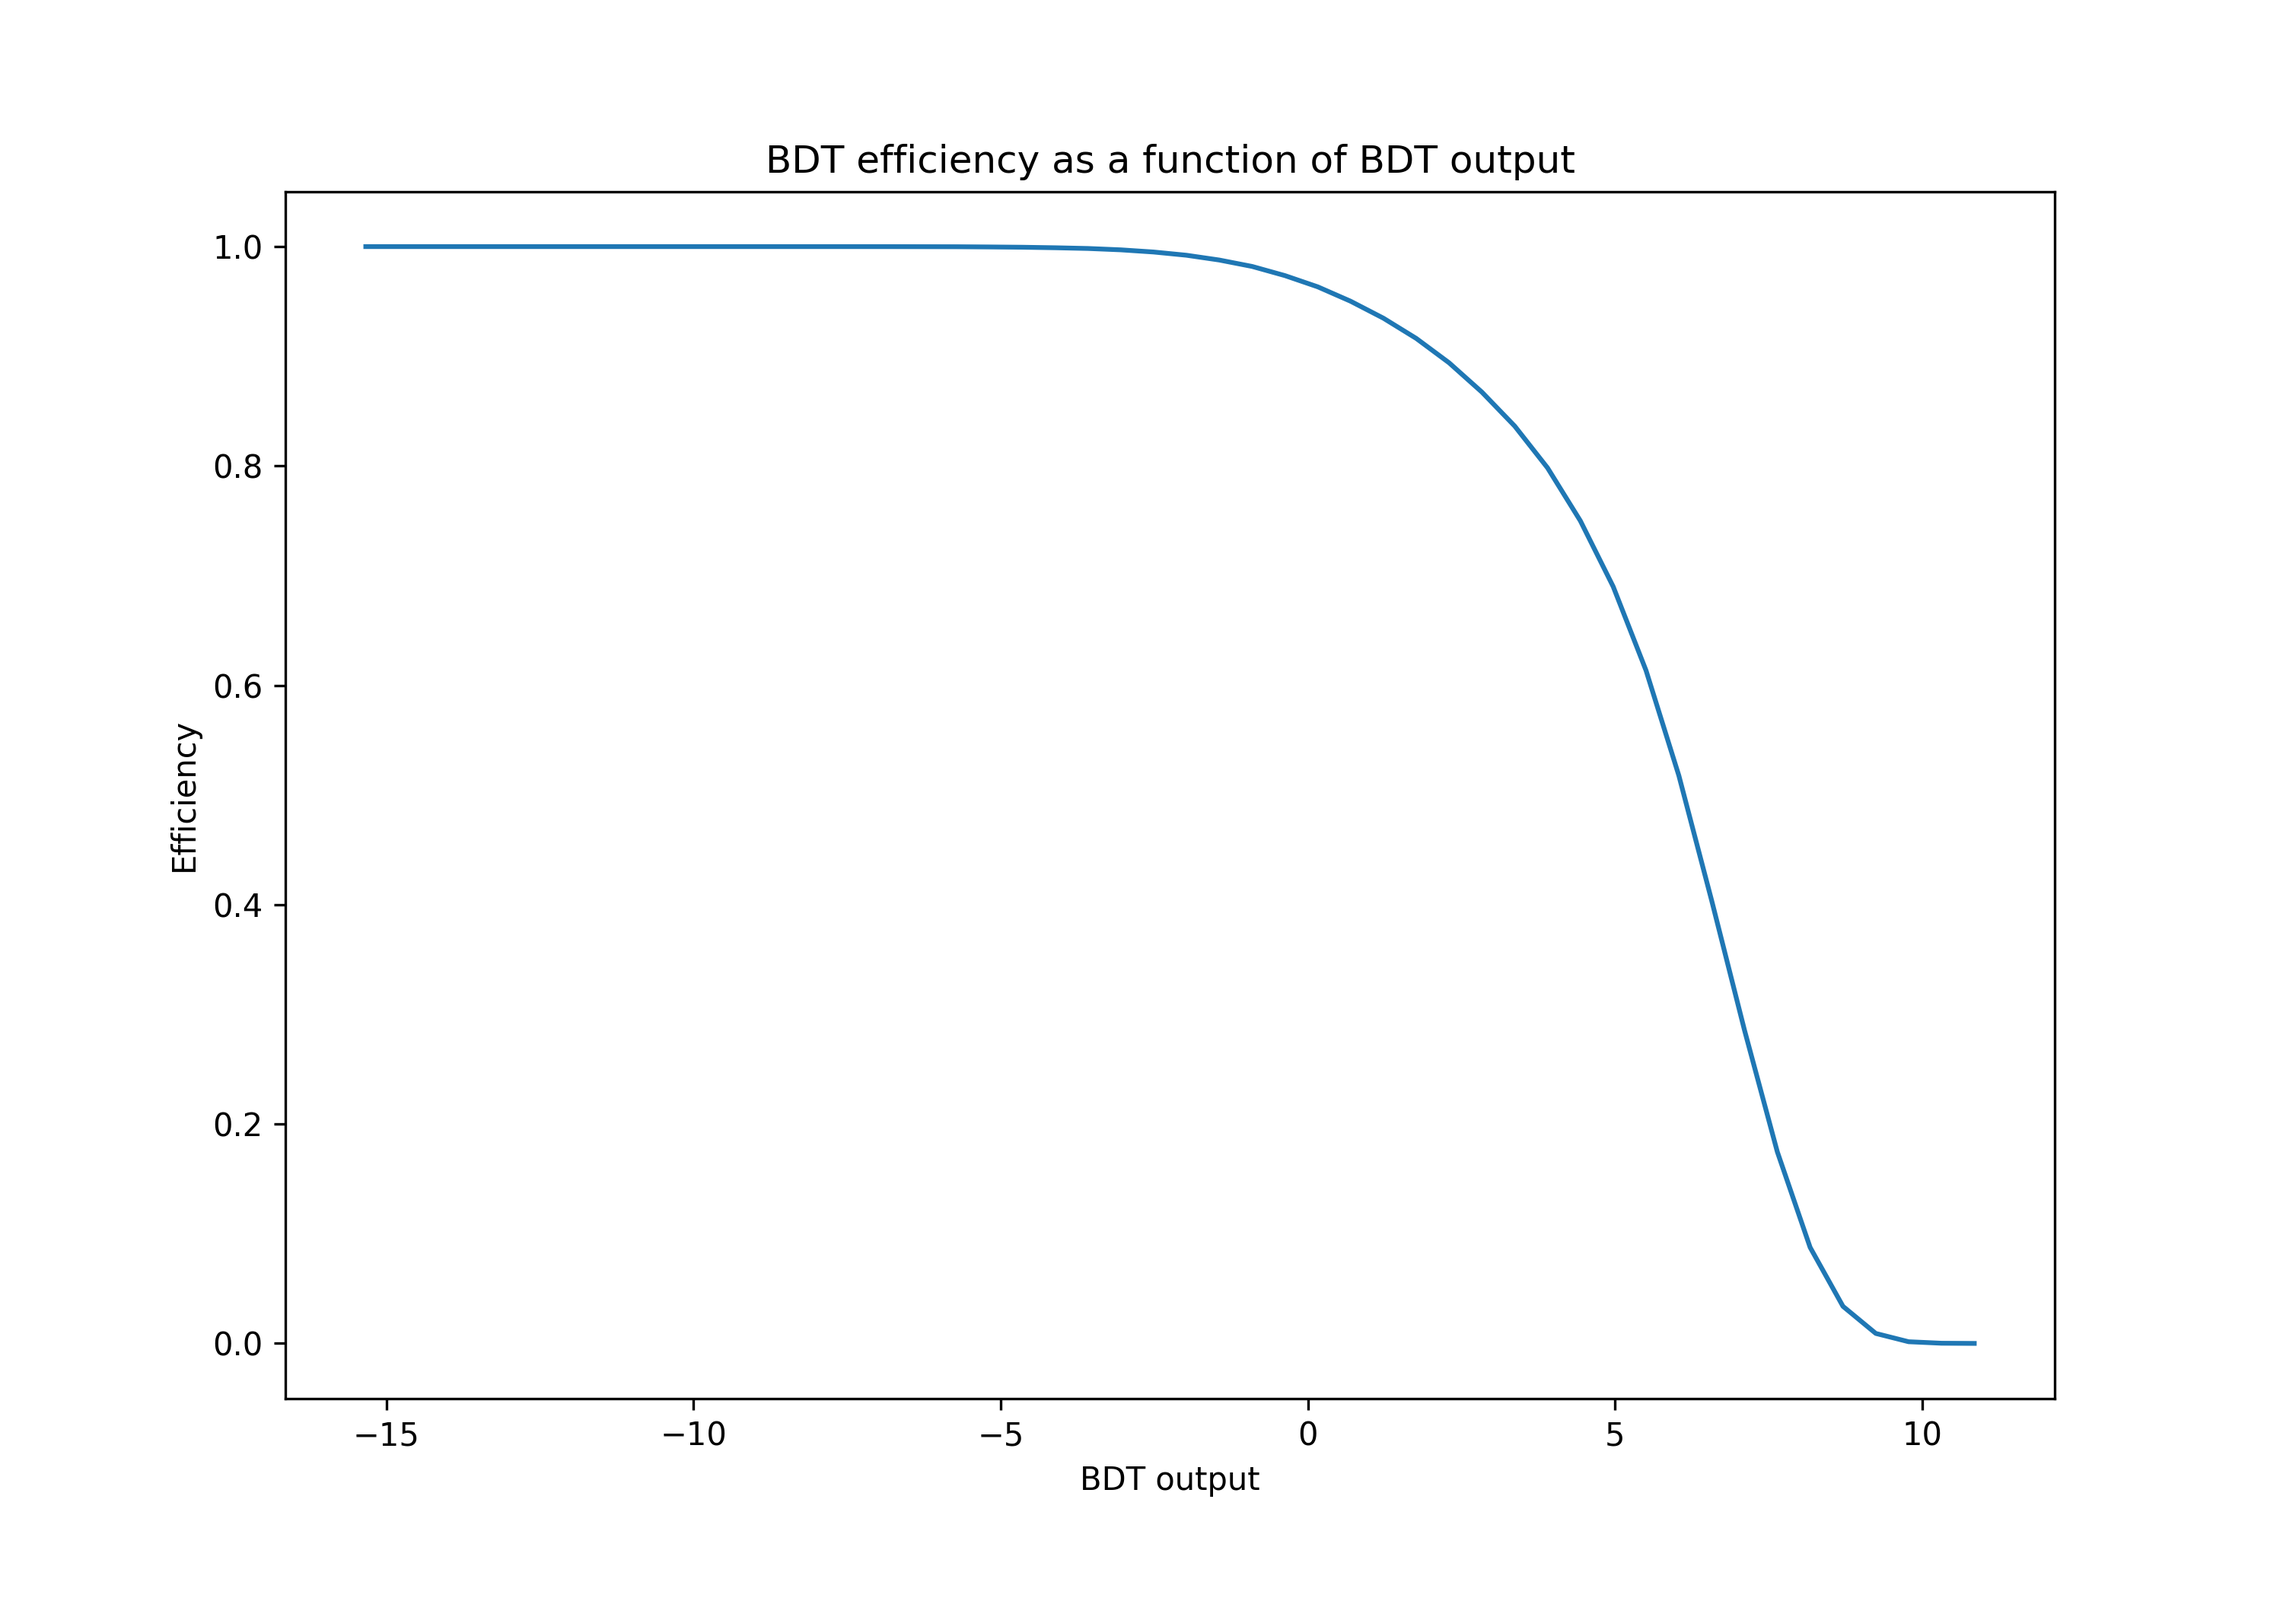
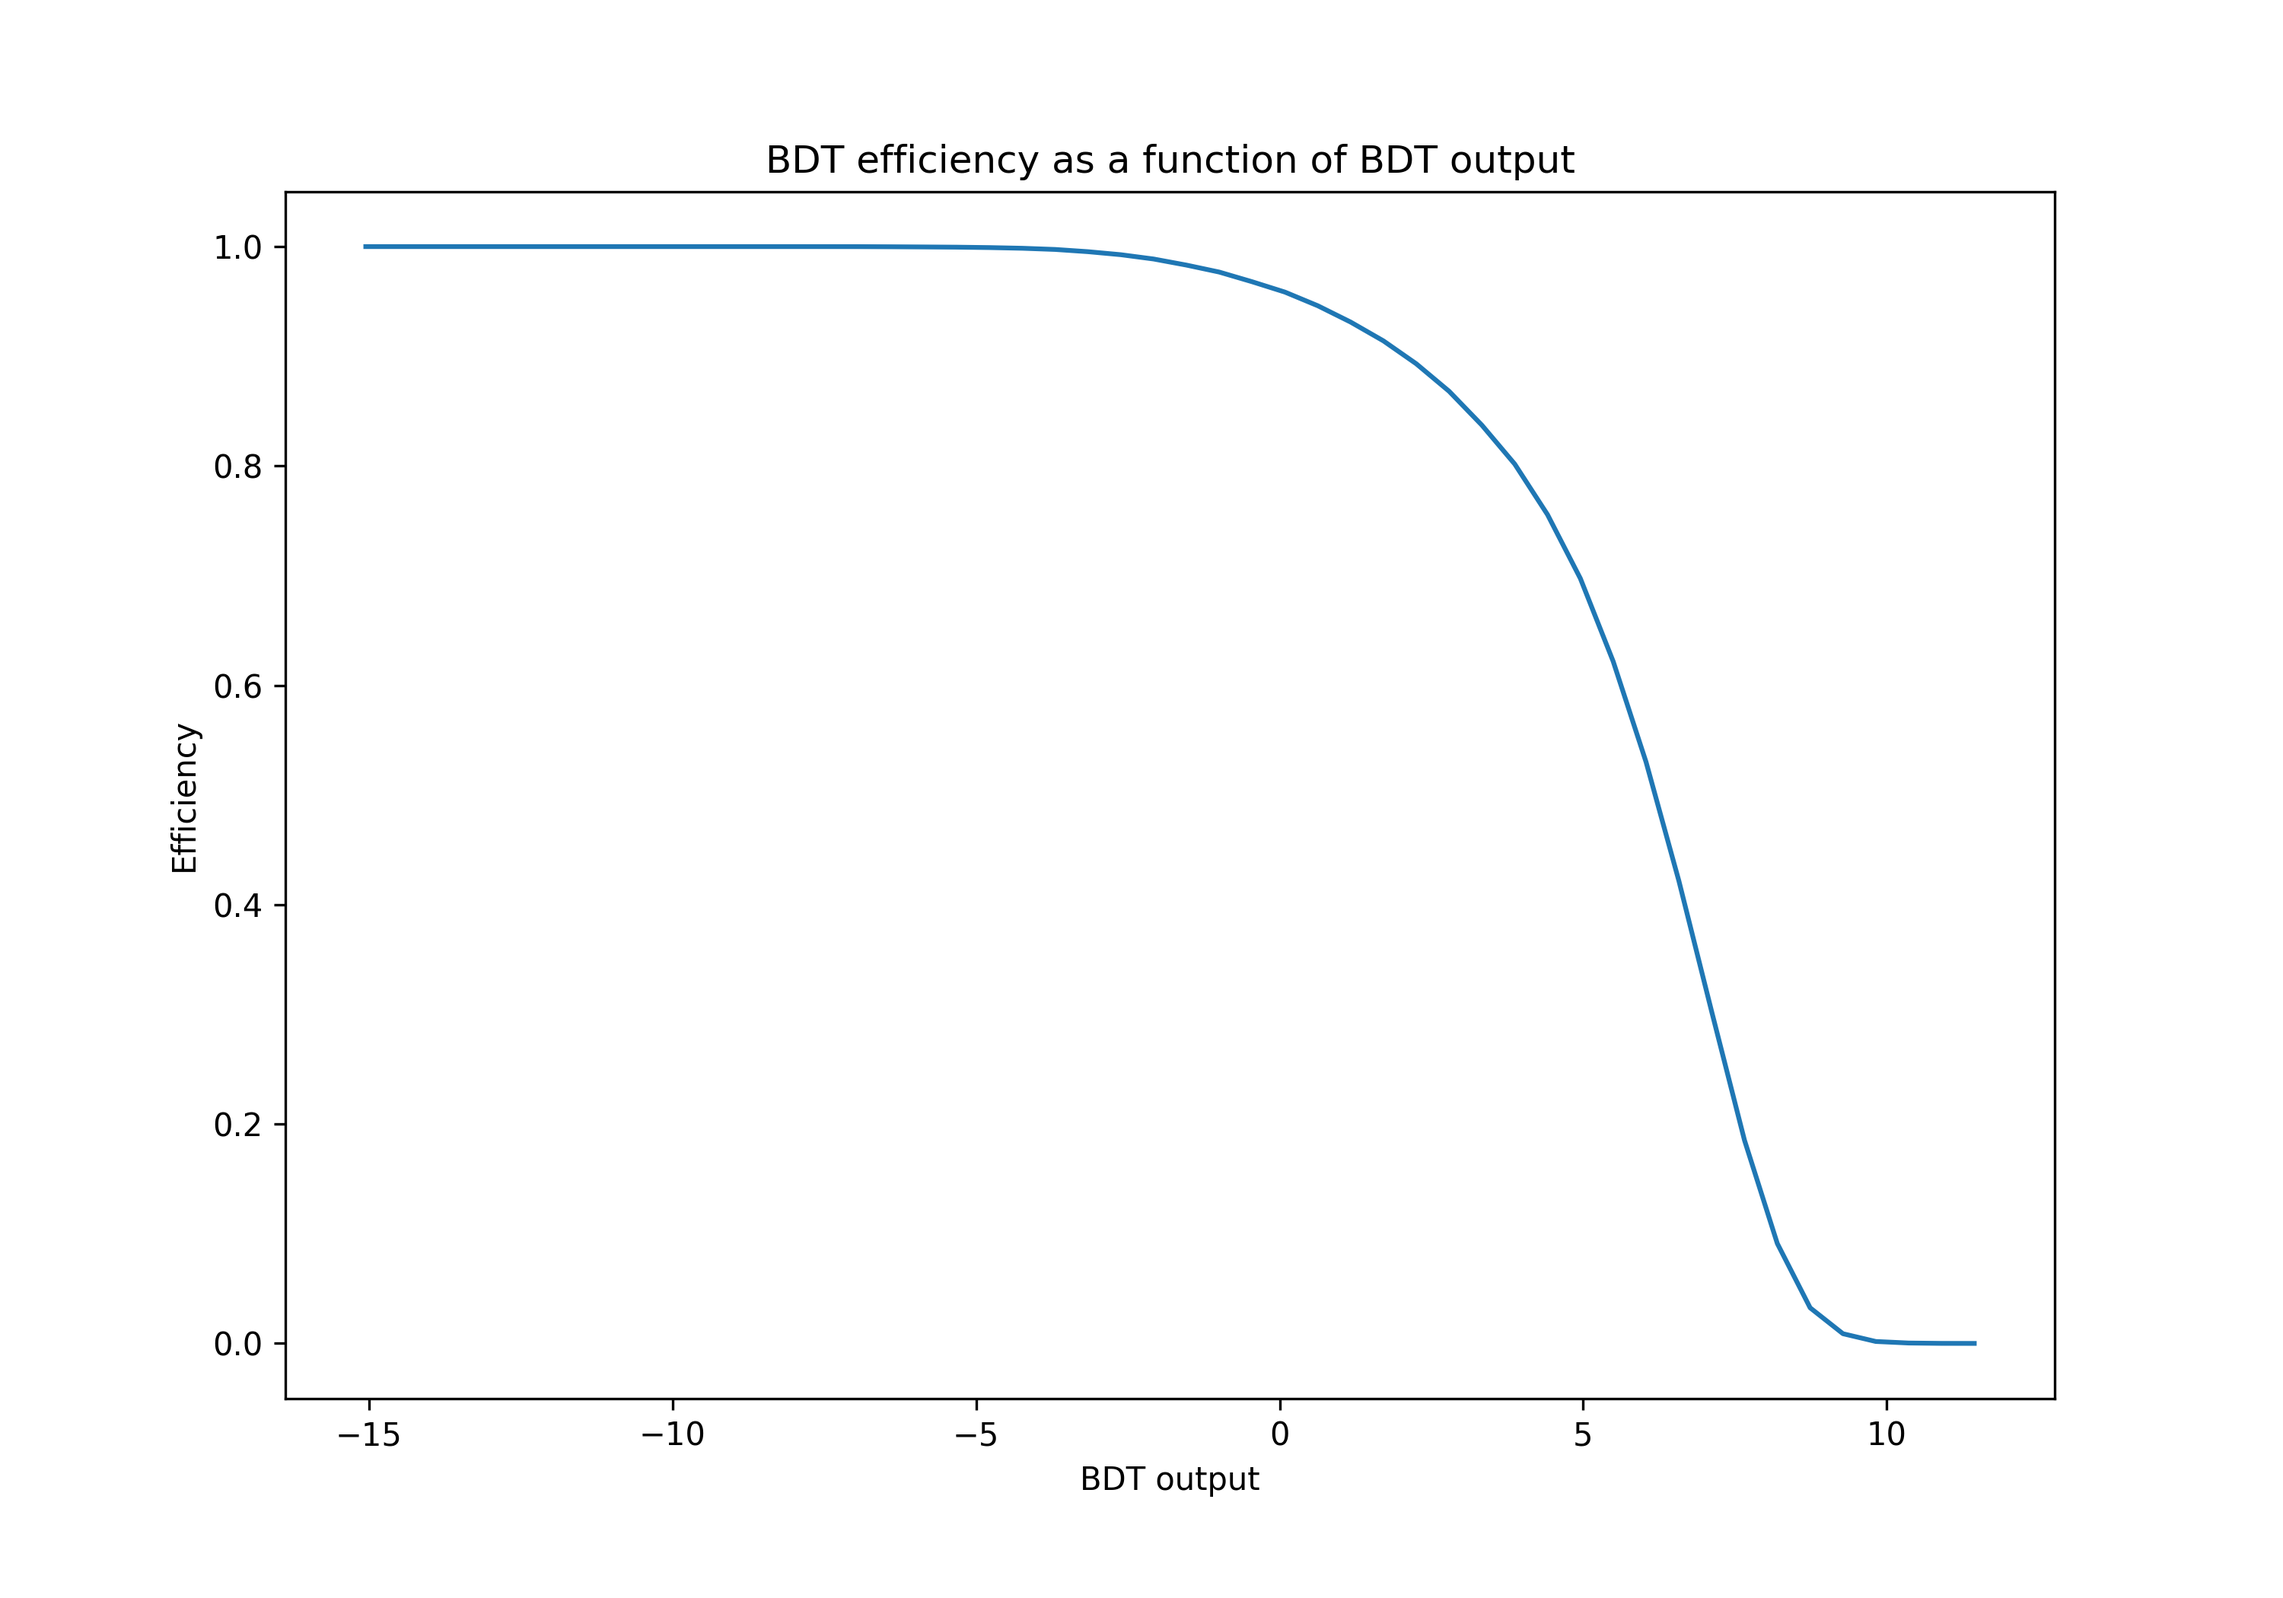
Corrected error for efficiency plot, use hipe4ml to plot feature importance

diff --git a/training.py b/training.py
@@ -35,9 +35,6 @@ print(len(data.get_data_frame()))               #104732
 print(len(backgorund_ls.get_data_frame()))      #103200
 print(len(mc_signal.get_data_frame()))          #2272026
 
-#The dataset would be highly unbalanced, thus I think it would be better to sample the MC datas to make a 
-#balanced dataset. I will try both options
-
 # %%
 # TRAINING WITH UNBALANCED DATASET
 
@@ -59,14 +56,10 @@ plt.rcParams["figure.figsize"] = (10, 7)
 leg_labels = ['background', 'signal']
 
 ml_out_fig = plot_utils.plot_output_train_test(model_hdl, train_test_data, 100, 
-                                               False, leg_labels, True, density=True)
+                                               True, leg_labels, True, density=True)
 
 roc_train_test_fig = plot_utils.plot_roc_train_test(train_test_data[3], y_pred_test,
                                                     train_test_data[1], y_pred_train, None, leg_labels)
-
-#%%
-plt.hist(data.get_data_frame()['model_output'],bins=100)
-
 
 #%%
 
@@ -75,23 +68,15 @@ selected_data_hndl = data.get_subset('model_output > 0.95 & m>=2.96 & m<=3.04')
 
 labels_list = ["after selection","before selection"]
 colors_list = ['orangered', 'cornflowerblue']
-plot_utils.plot_distr([selected_data_hndl, data], column='pt', bins=34, labels=labels_list, colors=colors_list, density=True,fill=True,  alpha=0.5)    #histtype='step',
+plot_utils.plot_distr([selected_data_hndl, data], column='pt', bins=34, labels=labels_list, colors=colors_list,log=True, density=False,fill=True,  alpha=0.5)    #histtype='step',
 ax = plt.gca()
 ax.set_xlabel(r'$p_T$ (GeV/$c$)')
 ax.margins(x=0)
 ax.xaxis.set_label_coords(0.9, -0.075)
 
-labels_list = ["after selection"]
-colors_list = ['orangered']
-plot_utils.plot_distr([selected_data_hndl, data], column='m', bins=34, labels=labels_list, colors=colors_list, density=True,fill=True,  alpha=0.5)
-ax = plt.gca()
-ax.set_xlabel(r'Mass (GeV/$c^2$)')
-ax.margins(x=0)
-ax.xaxis.set_label_coords(0.9, -0.075)
-
 labels_list = ["after selection","before selection"]
 colors_list = ['orangered', 'cornflowerblue']
-plot_utils.plot_distr([selected_data_hndl, data], column='centrality',log=True, bins=34, labels=labels_list, colors=colors_list, density=True,fill=True,  alpha=0.5)
+plot_utils.plot_distr([selected_data_hndl, data], column='centrality',log=True, bins=34, labels=labels_list, colors=colors_list, density=False,fill=True,  alpha=0.5)
 ax = plt.gca()
 ax.set_xlabel(r'Mass (GeV/$c^2$)')
 ax.margins(x=0)
@@ -103,20 +88,19 @@ print(len(selected_data_hndl)/len(data))
 # %%
 max_score = max(data.get_data_frame()['model_output'])
 
-for score in np.arange(0., max_score, 0.1):
-    selected_data_hndl = data.get_subset('m >= 2.96 & m<= 3.04 & model_output > ' + str(score))
-    plot_utils.plot_distr(selected_data_hndl,labels='score > ' + str(np.round(score,2)), column='m', bins=34, colors='orange', density=True,fill=True)
-    ax = plt.gca()
-    ax.set_xlabel(r'Mass (GeV/$c^2$)')
-    ax.margins(x=0)
-    ax.xaxis.set_label_coords(0.9, -0.075)
-    plt.savefig('./images/model_out_GT_' + str(np.round(score,2)) + '.png',dpi = 300, facecolor = 'white')
+if False:
+    for score in np.arange(0., max_score, 0.1):
+        selected_data_hndl = data.get_subset('model_output > ' + str(score))
+        plot_utils.plot_distr(selected_data_hndl,labels='score > ' + str(np.round(score,2)), column='m', bins=34, colors='orange', density=False,fill=True, range=[2.96,3.04])
+        ax = plt.gca()
+        ax.set_xlabel(r'Mass (GeV/$c^2$)')
+        ax.margins(x=0)
+        ax.xaxis.set_label_coords(0.9, -0.075)
+        plt.savefig('./images/model_out_GT_' + str(np.round(score,2)) + '.png',dpi = 300, facecolor = 'white')
 
 # %%
-backgorund_ls.apply_model_handler(model_hdl)
-mc_signal.apply_model_handler(model_hdl)
-mc_bkg_merge = train_test_generator([mc_signal, backgorund_ls], [1,0], test_size=0.99)
-bdt_efficiency = bdt_efficiency_array(mc_bkg_merge[3],mc_bkg_merge[2]['model_output'])
+# BDT EFFICIENCY AS FUNCTION OF BDT OUTPUT
+bdt_efficiency = bdt_efficiency_array(train_test_data[3],y_pred_test)
 
 plt.plot(bdt_efficiency[1],bdt_efficiency[0])
 plt.title("BDT efficiency as a function of BDT output")
@@ -124,12 +108,23 @@ plt.xlabel('BDT output')
 plt.ylabel('Efficiency')
 plt.savefig('./images/bdt_eff_bdt_out.png',dpi=300,facecolor='white')
 
+#%%
+# BDT FEATURE IMPORTANCE USING HIPE4ML WITH SHAP
+
+feat_imp_1, feat_imp_2 = plot_utils.plot_feature_imp(train_test_data[2],train_test_data[3],model_hdl,approximate=False)
+feat_imp_1.savefig('./images/feature_importance_HIPE4ML_violin.png',dpi=300,facecolor='white')
+feat_imp_2.savefig('./images/feature_importance_HIPE4ML_bar.png',dpi=300,facecolor='white')
+
 # %%
+# BDT FEATURE IMPORTANCE USING XGBOOST METHOD
 xgb_model = model_hdl.get_original_model()
 sorted_idx = xgb_model.feature_importances_.argsort()
 plt.barh([training_variables[i] for i in sorted_idx], xgb_model.feature_importances_[sorted_idx])
 plt.xlabel("Xgboost Feature Importance")
 plt.savefig('./images/xgb_feature_importance.png', dpi=300, facecolor='white')
 
+
+# %%
+train_test_data[2]
 
 # %%
